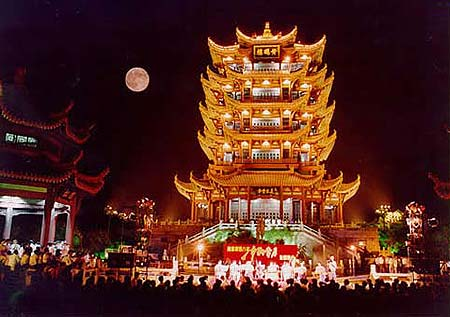
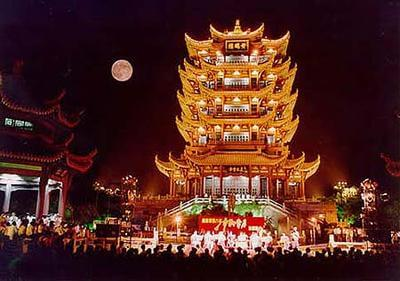
compress the images.

diff --git a/stylesheets/screen.css b/stylesheets/screen.css
@@ -277,19 +277,19 @@ header .links .join-us:hover span:before {
 
 /* line 189, ../sass/screen.scss */
 #section2 {
-  background: #e4e4e4 url(../images/2.png) bottom center no-repeat;
+  background: #e4e4e4 url(../images/bg-trans2.png) bottom center no-repeat;
   background-size: 100% 100%;
 }
 
 /* line 193, ../sass/screen.scss */
 #section3 {
-  background: #f3f3f3 url(../images/3.png) bottom center no-repeat;
+  background: #f3f3f3 url(../images/bg-trans1.png) bottom center no-repeat;
   background-size: 100% 100%;
 }
 
 /* line 197, ../sass/screen.scss */
 #section4 {
-  background: #e4e4e4 url(../images/1.png) bottom center no-repeat;
+  background: #e4e4e4 url(../images/bg-trans2.png) bottom center no-repeat;
   background-size: 100% 100%;
 }
 

diff --git a/sass/screen.scss b/sass/screen.scss
@@ -187,15 +187,15 @@ header {
     background-size: 100% 100%;
 }
 #section2 {
-    background: #e4e4e4 url(../images/2.png) bottom center no-repeat;
+    background: #e4e4e4 url(../images/bg-trans2.png) bottom center no-repeat;
     background-size: 100% 100%;
 }
 #section3 {
-    background: #f3f3f3 url(../images/3.png) bottom center no-repeat;
+    background: #f3f3f3 url(../images/bg-trans1.png) bottom center no-repeat;
     background-size: 100% 100%;
 }
 #section4 {
-    background: #e4e4e4 url(../images/1.png) bottom center no-repeat;
+    background: #e4e4e4 url(../images/bg-trans2.png) bottom center no-repeat;
     background-size: 100% 100%;
 }
 .index {
